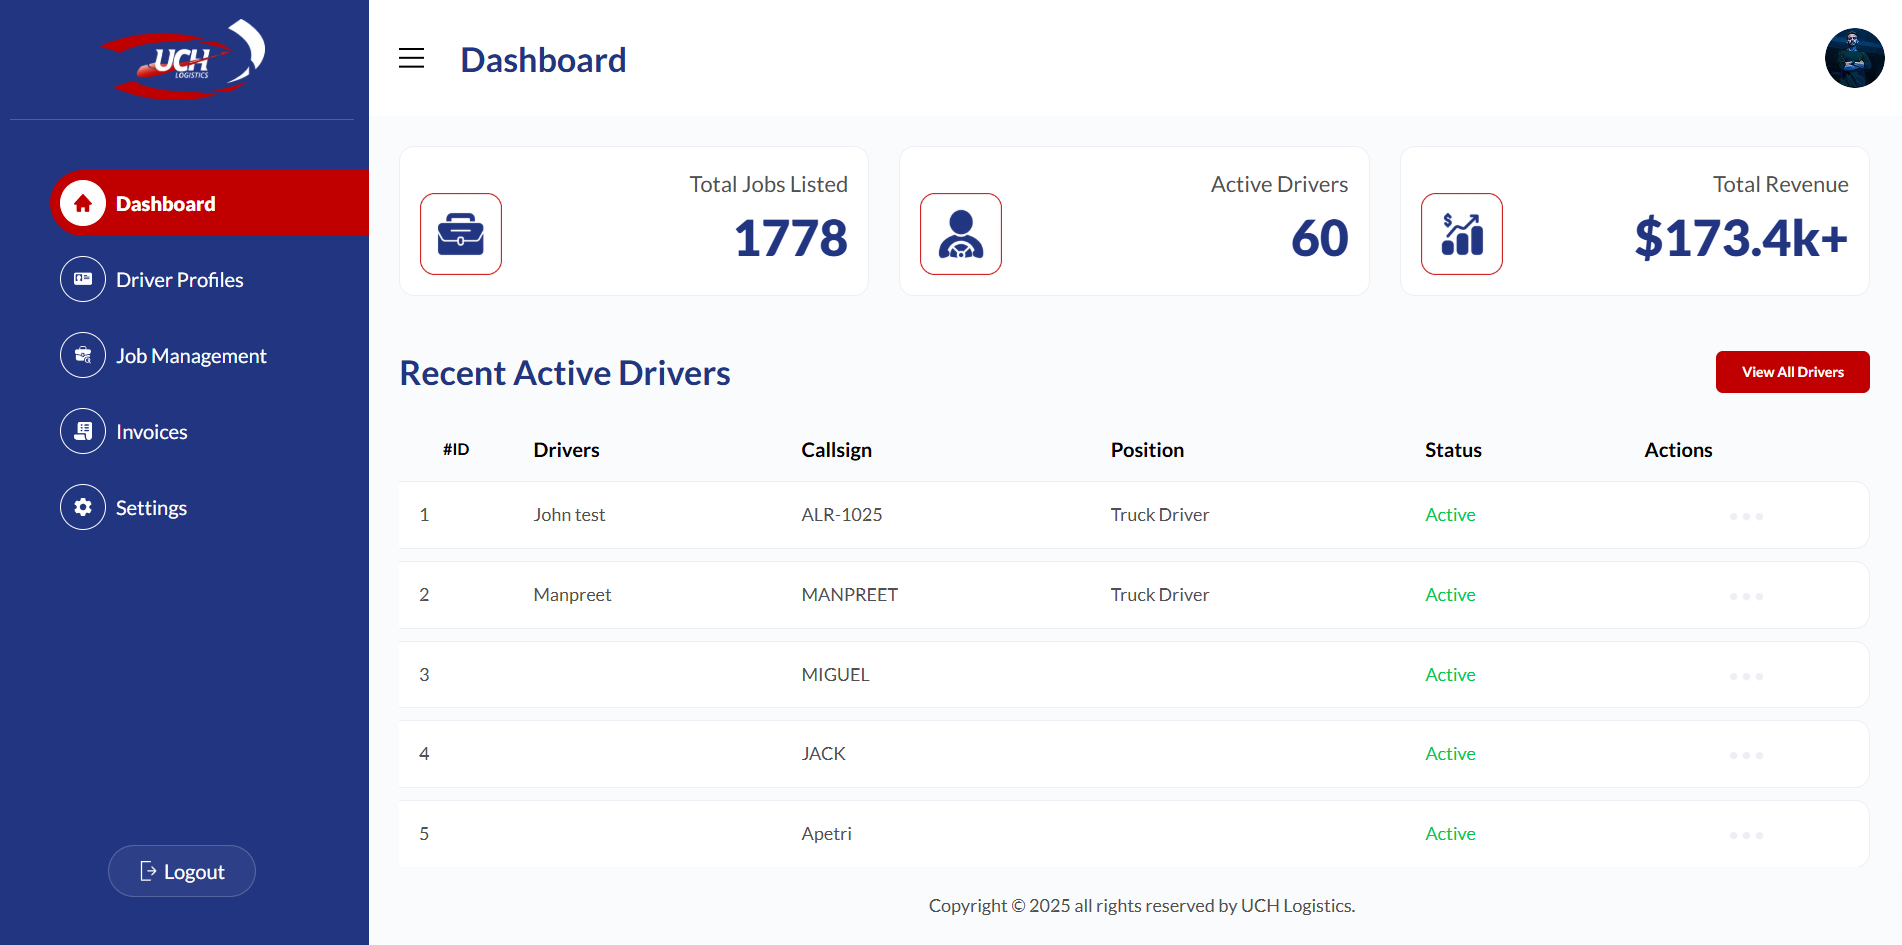
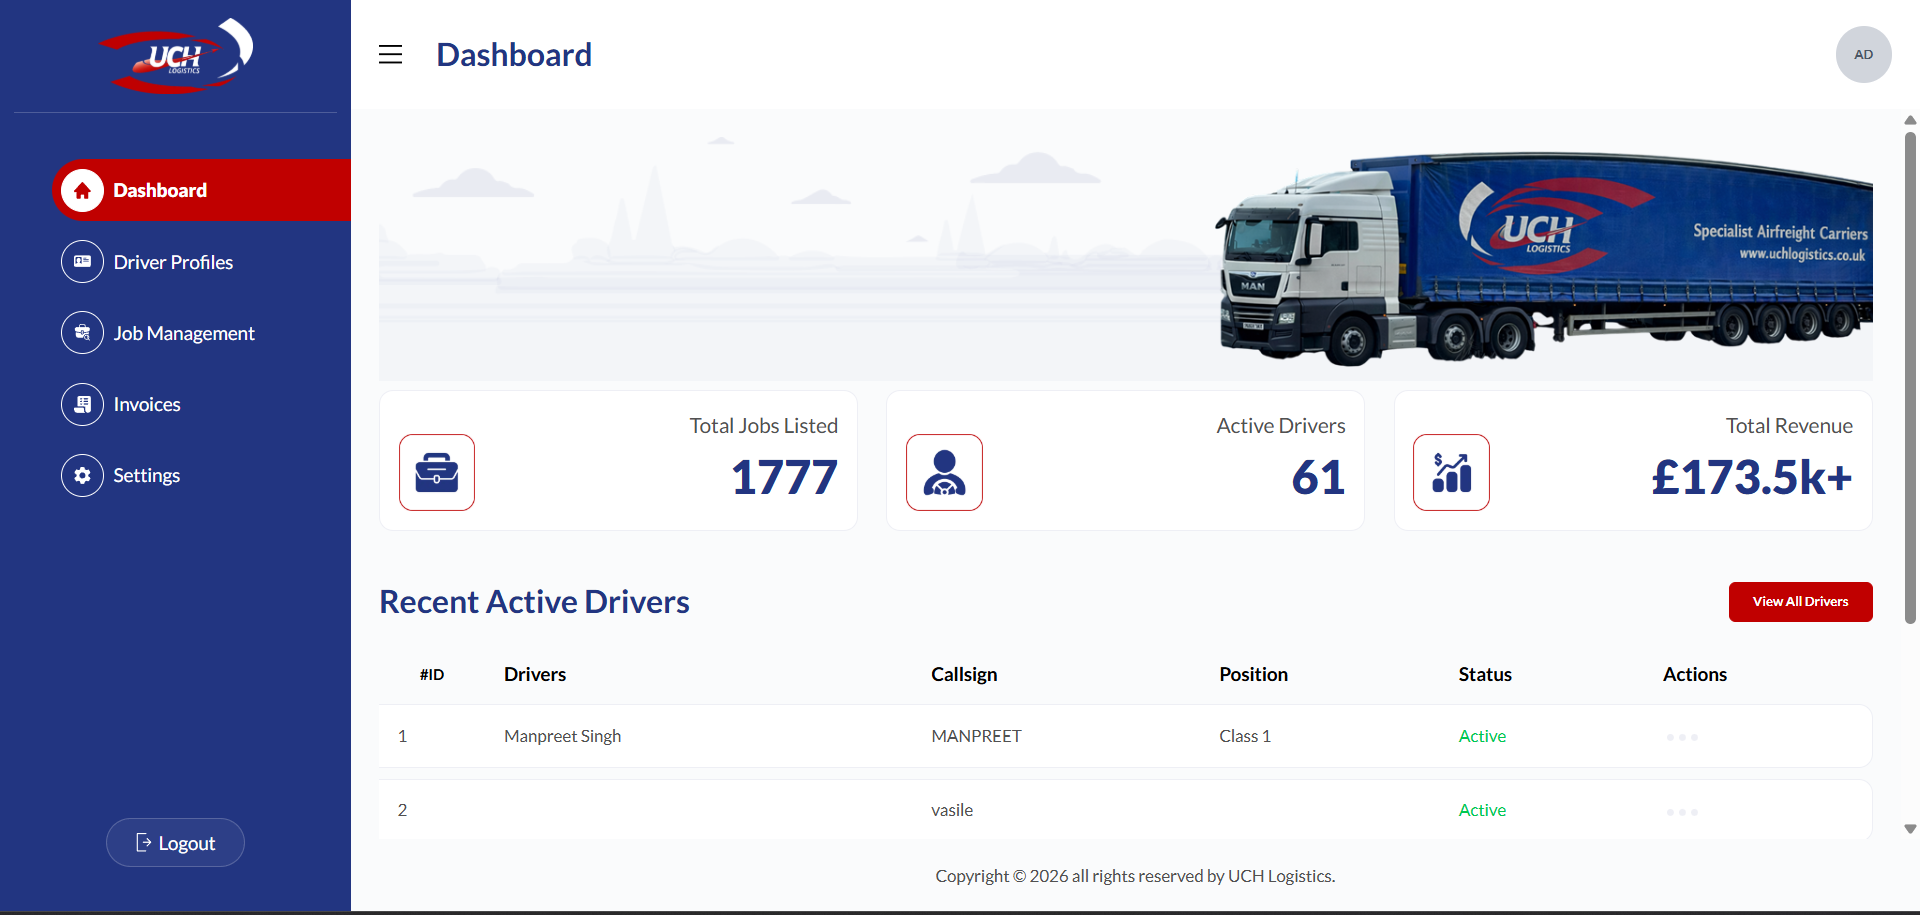
Latest Updates

diff --git a/src/sections/Experience.jsx b/src/sections/Experience.jsx
@@ -18,13 +18,61 @@ export const Experience = () => {
 
         <div className={cardClasses + " mb-10"}>
           <div className="grid grid-cols-1 md:grid-cols-4 gap-4">
-            
+
+            <div className="md:col-span-1 border-r border-[#2c3340] md:pr-4">
+              <h3 className="text-xl md:text-2xl font-bold text-white uppercase tracking-wider mb-1">
+                Sagmetic Infotech
+              </h3>
+              <p className={dateClasses}>
+                Nov 2025 - Current
+              </p>
+            </div>
+
+            <div className="md:col-span-3 pt-4 md:pt-0">
+              <h4 className={titleClasses}>
+                Full Stack Developer
+              </h4>
+              <ul className={listClasses}>
+                <li className="flex items-start">
+                  <span className={bulletClasses}>•</span>
+                  Design, develop, and maintain integration-centric backend systems supporting logistics, payroll, and
+                  billing-oriented business processes.
+                </li>
+                <li className="flex items-start">
+                  <span className={bulletClasses}>•</span>
+                  Implement financial and settlement workflows, including salary calculation rules, invoice drafting logic,
+                  and reconciliation mechanisms.
+                </li>
+                <li className="flex items-start">
+                  <span className={bulletClasses}>•</span>
+                  Build and manage secure REST/OData-style APIs to enable structured data exchange between internal
+                  platforms and external services.
+                </li>
+                <li className="flex items-start">
+                  <span className={bulletClasses}>•</span>
+                  Automate background processing and scheduled jobs using Python to support ERP-like operational
+                  requirements.
+                </li>
+                <li className="flex items-start">
+                  <span className={bulletClasses}>•</span>
+                  Collaborate with business stakeholders to translate functional requirements into technical process
+                  flows
+                  , ensuring data integrity and traceability.
+                </li>
+              </ul>
+            </div>
+          </div>
+        </div>
+
+        <div className={cardClasses}>
+          <div className="grid grid-cols-1 md:grid-cols-4 gap-4">
+
             <div className="md:col-span-1 border-r border-[#2c3340] md:pr-4">
               <h3 className="text-xl md:text-2xl font-bold text-white uppercase tracking-wider mb-1">
                 MY VIRTUAL TEAMS
               </h3>
               <p className={dateClasses}>
-                July 2023 - Current
+                July 2023 - Nov 2025
               </p>
             </div>
 
@@ -35,20 +83,27 @@ export const Experience = () => {
               <ul className={listClasses}>
                 <li className="flex items-start">
                   <span className={bulletClasses}>•</span>
-                  Designed and developed 10+ scalable web applications using Core PHP, Laravel, React.js, Node.js, and Express.js.
+                  Delivered multiple enterprise-grade applications with emphasis on billing logic, inventory
+                  synchronization, and transactional consistency
                 </li>
                 <li className="flex items-start">
                   <span className={bulletClasses}>•</span>
-                  Built custom Shopify public and embedded apps and integrated payment gateways (Stripe, Razorpay) to streamline client operations.
+                  Developed and maintained Shopify-based integrations, handling large product catalogs, pricing
+                  workflows, and financial data exchange.
                 </li>
                 <li className="flex items-start">
                   <span className={bulletClasses}>•</span>
-                  Implemented real-time notifications (Reverb, Pusher, Firebase) which improved user engagement by over 25% , and created RESTful APIs handling 1,000 requests per minute.
+                  Designed and optimized REST APIs to ensure high availability and throughput under production
+                  workloads.
                 </li>
                 <li className="flex items-start">
                   <span className={bulletClasses}>•</span>
-                  Configured and deployed on AWS, Hostinger, and DigitalOcean , optimizing setups with Docker and Nginx leading to a 15% reduction in server-side latency.
+                  Implemented real-time data integrations using WebSockets, Firebase, and third-party communication
+                  platforms.
                 </li>
+                <li className="flex items-start"><span className={bulletClasses}>•</span>
+                  Containerized backend services with Docker and configured Nginx-based deployments for scalable
+                  production environments</li>
               </ul>
             </div>
           </div>
@@ -56,7 +111,7 @@ export const Experience = () => {
 
         <div className={cardClasses}>
           <div className="grid grid-cols-1 md:grid-cols-4 gap-4">
-            
+
             <div className="md:col-span-1 border-r border-[#2c3340] md:pr-4">
               <h3 className="text-xl md:text-2xl font-bold text-white uppercase tracking-wider mb-1">
                 HOPING MINDS

diff --git a/src/sections/AboutBanner.jsx b/src/sections/AboutBanner.jsx
@@ -23,10 +23,14 @@ export const AboutBanner = () => {
               {/* Text */}
               <div className="md:w-[60%] text-lg md:text-xl space-y-4 max-md:pt-5">
                 <p className="max-sm:text-[16px]">
-                  I am a dedicated Full Stack PHP Developer with over 3.4+ years of experience designing and deploying scalable web applications for startups and enterprise clients. My core expertise spans Core PHP, Laravel, React.js, Nextjs, Node.js, and Express.js, coupled with proficiency in databases like MySQL and MongoDB. I have a strong track record of delivering high-impact features, including building custom Shopify apps, integrating payment gateways (Stripe, Razorpay), and implementing real-time features (using Reverb, Pusher, Firebase) that boosted user engagement by over 25% .
-                </p>
-                <p className="max-sm:text-[16px]">
-                  I have successfully created and optimized RESTful APIs capable of handling 1,000 requests per minute. Furthermore, my expertise extends to DevOps, where I've deployed and optimized applications on AWS (EC2, S3, IAM), Hostinger, and DigitalOcean using Docker and Nginx, resulting in a 15% reduction in server-side latency. Holding the AWS Cloud Practitioner and AWS Developer Associate certifications, I am committed to leveraging my full-stack skills and cloud expertise to deliver efficient, innovative, and high-performance web solutions.
+                  I am a dedicated Full Stack Developer with over 3.5+ years of experience building and maintaining
+                  enterprise-grade systems across logistics, e-commerce, and billing-driven platforms. Strong expertise in
+                  system integrations, REST/OData-style APIs, authentication, and financial workflow automation, with
+                  hands-on exposure to ERP concepts, billing processes, and large-scale system interoperability.
+                  Experienced in working with complex business rules, invoicing logic, background jobs, and process
+                  optimization, and well-positioned to contribute in SAP S/4HANA–centric environments through interface
+                  development, ERP integrations, and technical collaboration with functional teams. Strong ownership mindset
+                  and ability to adapt quickly in fast-paced, international environments.
                 </p>
               </div>
             </div>

diff --git a/src/components/projectsData.jsx b/src/components/projectsData.jsx
@@ -1,8 +1,7 @@
-import foresight from "../assets/images/foresight.png";
 import sanvit_motors from "../assets/images/sanvit_motors.png";
 import sprint_bus from "../assets/images/sprint_bus.png";
-import akhil_bhartiya from "../assets/images/Akhil_bhartiya.png";
-
+import uch_logistics from "../assets/images/UCH_Logstics.png";
+import advica_enterprise from "../assets/images/advica.png";
 
 const projects = [
   {
@@ -19,15 +18,15 @@ const projects = [
   },
   {
     id: 3,
-    name: "Landing Page",
-    image: foresight,
-    link: "https://foresightdigitals.com/"
+    name: "Advica ERP System",
+    image: advica_enterprise,
+    link: "https://advica-enterprise.netlify.app/"
   },
   {
     id: 4,
-    name: "Government Landing Page",
-    image: akhil_bhartiya,
-    link: "https://abkmt.in/"
+    name: "UCH Logistics ERP",
+    image: uch_logistics,
+    link: "https://uch-logistics-frontend.vercel.app/dashboard"
   }
 ];
 

diff --git a/src/components/AllProjectsData.jsx b/src/components/AllProjectsData.jsx
@@ -1,5 +1,5 @@
 import confetti from "../assets/images/confetti.png";
-import foresight from "../assets/images/foresight.png";
+import advica_enterprise from "../assets/images/advica.png";
 import inkish_news from "../assets/images/inkish_news.png";
 import inkish_tv from "../assets/images/inkish_tv.png";
 import petriotics from "../assets/images/petriotics.png";
@@ -26,9 +26,9 @@ const AllProjects = [
   },
   {
     id: 3,
-    name: "Landing Page",
-    image: foresight,
-    link: "https://foresightdigitals.com/",
+    name: "Advica ERP System",
+    image: advica_enterprise,
+    link: "https://advica-enterprise.netlify.app/"
   },
   {
     id: 4,
